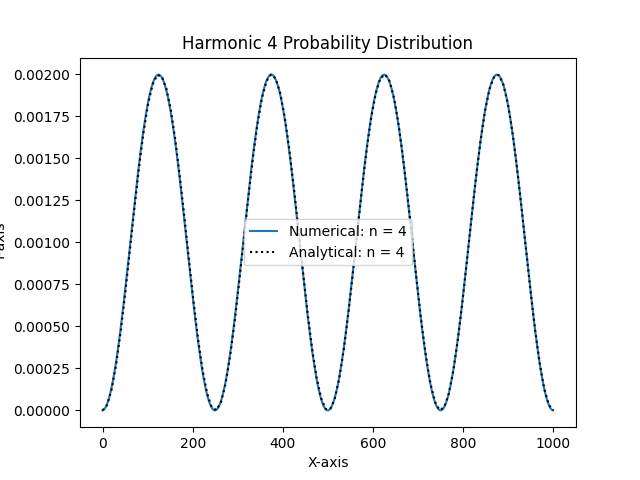
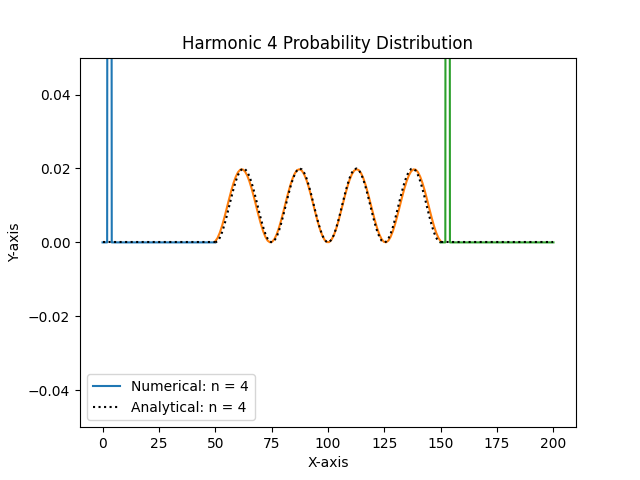
some progress in the new 1matrix file

diff --git a/cnub/1D_Schrodinger_numerical_3matrix.py b/cnub/1D_Schrodinger_numerical_3matrix.py
@@ -1,0 +1,103 @@
+import numpy as np
+import matplotlib.pyplot as plt
+
+# Constants
+hbar = 1.0   # Planck's constant / 2π
+N = 200     # Number of grid points
+
+
+# create hamiltonian matrix
+def Hamiltonian(m, N, x):
+    diag=np.where((N/4 <= x) & (x <= 3*N/4), 2, np.infty)
+    H = np.diag(diag)
+
+    for i in range(0, H.shape[0]):
+        if i != 0:
+            H[i,i-1] = -1
+        if i != H.shape[0]-1:
+            H[i,i+1] = -1
+    return H * -hbar**2 / (2*m)
+
+# def Hamiltonian(m, N, x): # THIS IS THE CODE THAT MAKES THE ALL INFINITIES MATRIX, EXCEPT FOR THE BOX IN THE MIDDLE
+#     H = np.full((N, N), np.inf)  # fill the matrix with infinity
+
+#     middle = N // 2  # find the middle index
+#     box_size = (N + 1) // 4  # size of the box
+
+#     # set all elements in the box to 0
+#     H[middle - box_size:middle + box_size, middle - box_size:middle + box_size] = 0
+
+#     # set the diagonal elements in the box to 2
+#     for i in range(middle - box_size, middle + box_size):
+#         H[i, i] = 2
+
+#     # set the off-diagonal elements in the box to -1
+#     for i in range(middle - box_size, middle + box_size - 1):
+#         H[i, i + 1] = -1    
+#         H[i + 1, i] = -1
+#     return H
+
+
+
+def normalize(psi):
+    norm = np.sqrt(np.sum(np.abs(psi)**2, axis=1))  # Compute the norm of each row
+    psi_norm = psi / norm[:, np.newaxis]  # Normalize each row
+    return psi_norm
+
+
+
+# function to graph the nth harmonic
+def harmonic(n, N):
+    
+    x1 = np.linspace(0, N/4, int(N/4)) 
+    x2 = np.linspace(N/4, 3*N/4, int(N/2))
+    x3 = np.linspace(3*N/4, N, int(N/4))
+
+    E, psi_1 = np.linalg.eigh(Hamiltonian(1, N, x1))
+    E, psi_2 = np.linalg.eigh(Hamiltonian(1, N, x2))
+    E, psi_3 = np.linalg.eigh(Hamiltonian(1, N, x3))
+    psi_norm_1 = normalize(psi_1)
+    psi_norm_2 = normalize(psi_2)
+    psi_norm_3 = normalize(psi_3)
+    
+    
+
+    plt.plot(x1, psi_norm_1[n-1]**2, label=f'Numerical: n = {n}') # graphing numerically
+    plt.plot(x2, psi_norm_2[n-1]**2)
+    plt.plot(x3, psi_norm_3[n-1]**2)
+    
+
+
+    def normalize_analytical_in(n, x):
+        psi = np.sqrt(2) * np.sin(n*np.pi*x*N/2) # times N to make it work on the same domain
+        dx = x[1] - x[0]  # calculate the step size
+        norm = np.sqrt(np.sum(np.abs(psi)**2) * dx)  # multiply the sum by the step size
+        psi_norm_ana = psi / norm
+        return psi_norm_ana
+    
+    for a in range(n, n+1):
+        plt.plot(x1, 0*x1, ls=':', color='black')
+
+    for a in range(n, n+1):
+        psi_norm_ana = normalize_analytical_in(a, x2)
+        plt.plot(x2, psi_norm_ana**2, label=f'Analytical: n = {a}', ls=':', color='black')
+
+    for a in range(n, n+1):
+        plt.plot(x3, 0*x3, ls=':', color='black')
+
+
+    # Set labels and title
+    plt.xlabel('X-axis')
+    plt.ylabel('Y-axis')
+    plt.title(f'Harmonic {n} Probability Distribution')
+
+    # Display legend
+    plt.legend()
+    plt.ylim(top=.05)
+    # Show the plot
+    plt.savefig('plots/Schrodinger_1D_Simulation.png')
+    
+    plt.show()
+
+
+harmonic(4, N)

diff --git a/cnub/1D_Schrodinger_numerical_1matrix.py b/cnub/1D_Schrodinger_numerical_1matrix.py
@@ -1,0 +1,92 @@
+import numpy as np
+import matplotlib.pyplot as plt
+
+# Constants
+hbar = 1.0   # Planck's constant / 2π
+N = 1000     # Number of grid points
+
+
+
+def Hamiltonians(m, N): # make an all diag(2) off-diag(-1) matrix
+    def kinetic(N):
+        diags = np.full(N, 2)
+
+        H = np.diag(diags)
+
+        for i in range(0, H.shape[0]):
+            if i != 0:
+                H[i,i-1] = -1
+            if i != H.shape[0]-1:
+                H[i,i+1] = -1
+        
+        return H
+
+    def potential(N):
+        H = np.zeros((N,N))
+        for i in range(0, H.shape[0]):
+            if i < int(N/4) or i > int(3*N/4):
+                H[i,i] = 10e10
+            else:
+                H[i,i] = 0
+    
+        return H
+    print(kinetic(N) + potential(N)* -hbar**2 / (2*m)) 
+    H = kinetic(N) + potential(N)
+    return H * -hbar**2 / (2*m)
+
+
+def normalize(psi):
+    norm = np.sqrt(np.sum(np.abs(psi)**2, axis=1))  # Compute the norm of each row
+    psi_norm = psi / norm[:, np.newaxis]  # Normalize each row
+    return psi_norm
+
+
+
+# function to graph the nth harmonic
+def harmonic(n, N):
+    
+    E, psi = np.linalg.eigh(Hamiltonians(1, N))
+    psi_norm = normalize(psi)
+    x_values = np.linspace(0, N, N)
+    
+    plt.plot(x_values, psi_norm[n-1]**2, label=f'Numerical: n = {n}') # graphing numerically
+
+
+    x1 = np.linspace(0, N/4, int(N/4)) 
+    x2 = np.linspace(N/4, 3*N/4, int(N/2))
+    x3 = np.linspace(3*N/4, N, int(N/4))
+    
+
+
+    def normalize_analytical_in(n, x):
+        psi = np.sqrt(2) * np.sin(n*np.pi*x*N/2) # times N to make it work on the same domain
+        dx = x[1] - x[0]  # calculate the step size
+        norm = np.sqrt(np.sum(np.abs(psi)**2) * dx)  # multiply the sum by the step size
+        psi_norm_ana = psi / norm
+        return psi_norm_ana
+    
+    for a in range(n, n+1):
+        plt.plot(x1, 0*x1, ls=':', color='black')
+
+    for a in range(n, n+1):
+        psi_norm_ana = normalize_analytical_in(a, x2)
+        plt.plot(x2, psi_norm_ana**2, label=f'Analytical: n = {a}', ls=':', color='black')
+
+    for a in range(n, n+1):
+        plt.plot(x3, 0*x3, ls=':', color='black')
+
+
+    # Set labels and title
+    plt.xlabel('X-axis')
+    plt.ylabel('Y-axis')
+    plt.title(f'Harmonic {n} Probability Distribution')
+
+    # Display legend
+    plt.legend()
+    # Show the plot
+    plt.savefig('plots/Schrodinger_1D_Simulation_1matrix.png')
+    
+    plt.show()
+
+
+harmonic(3, N)
